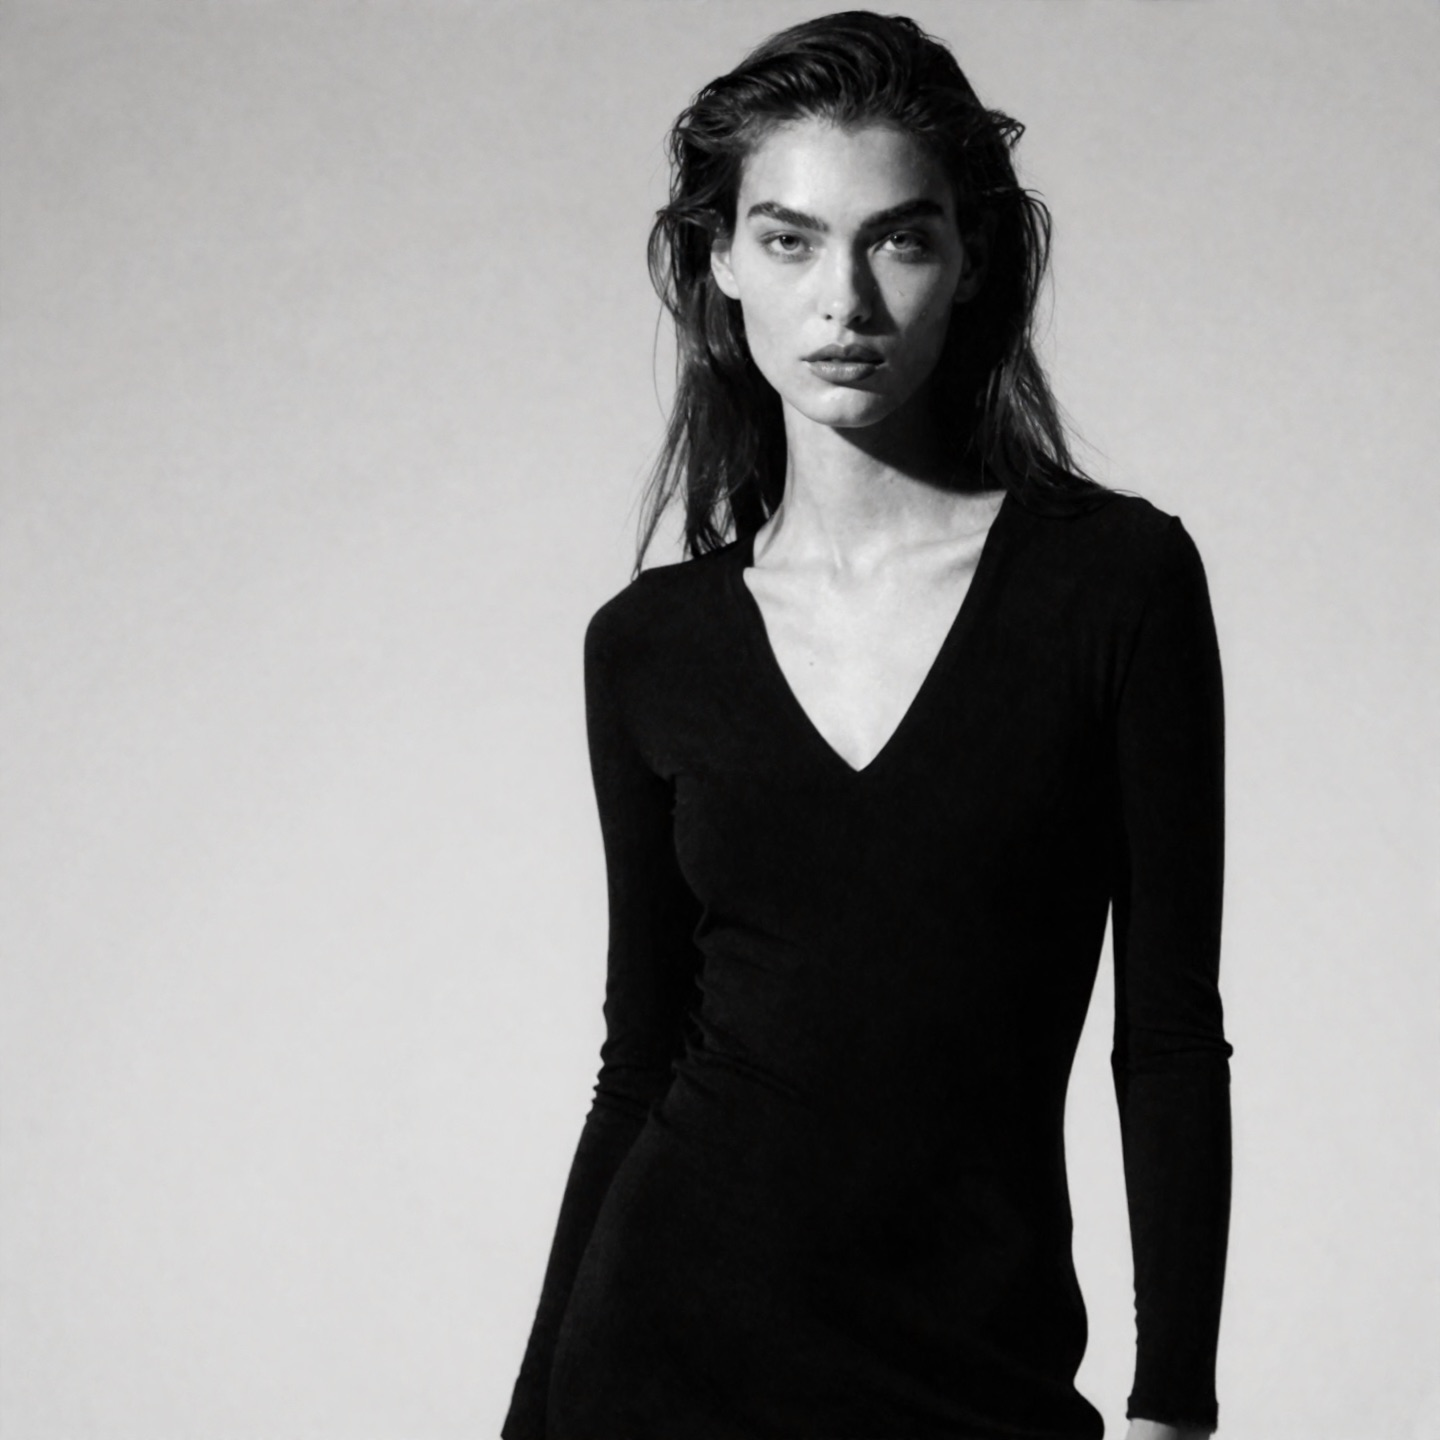
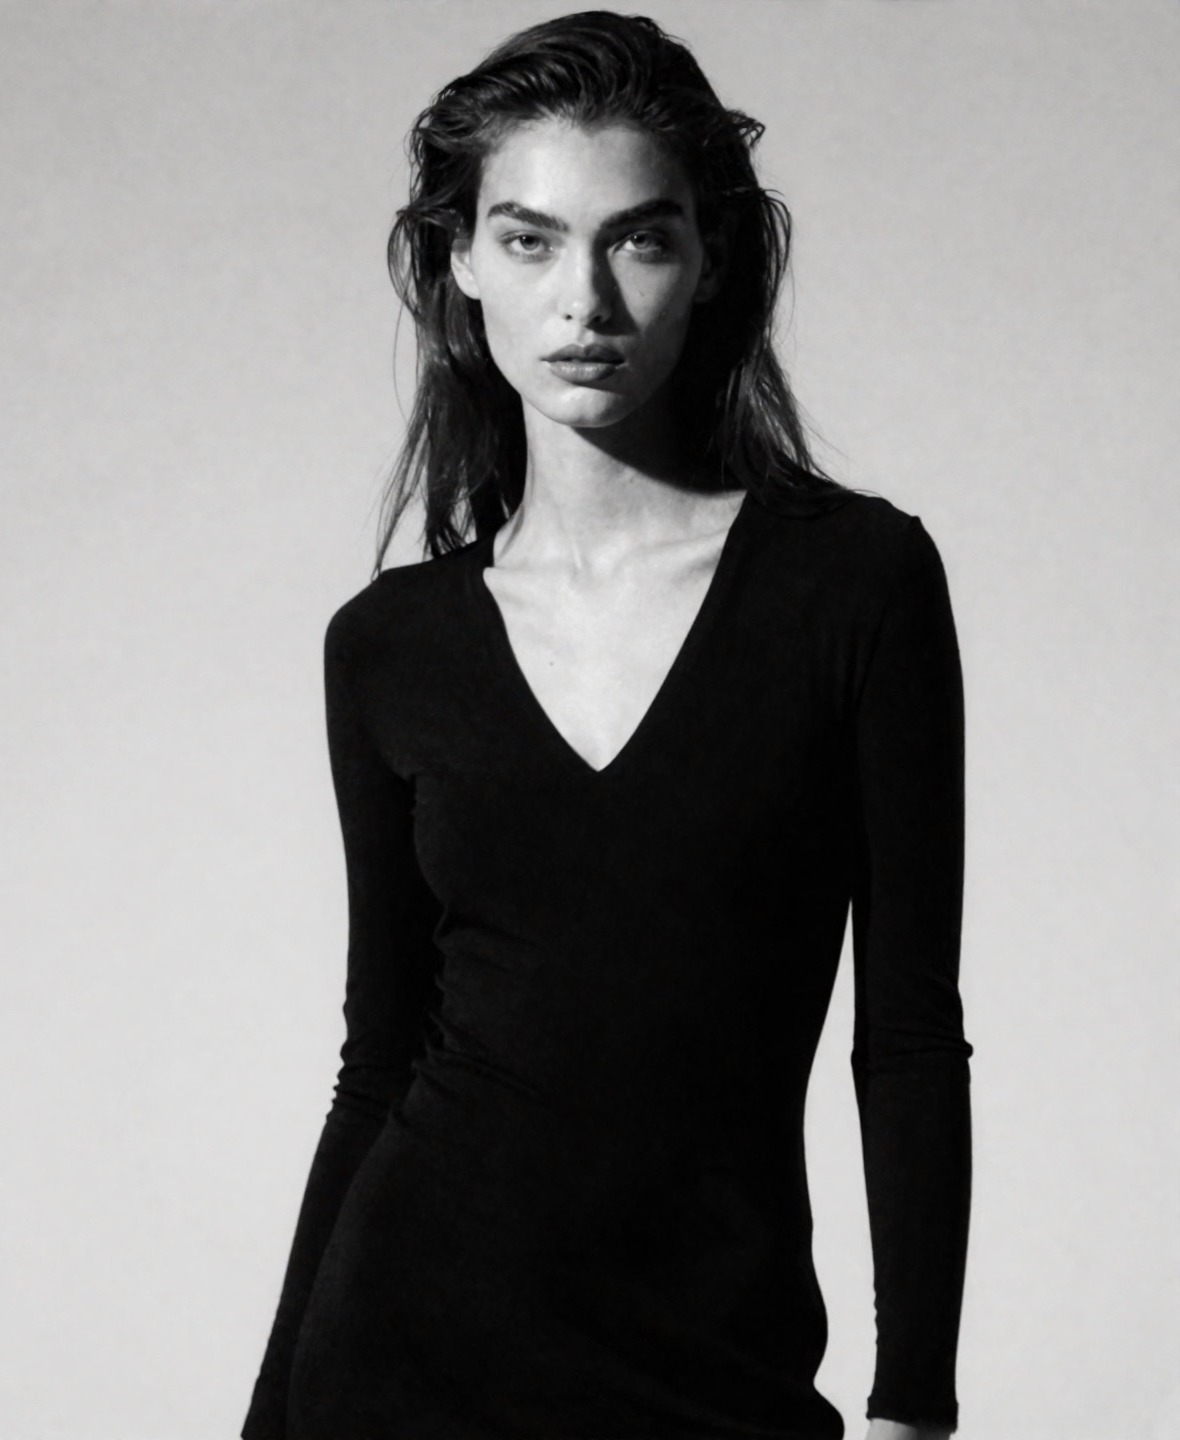
Reframe Beat 0 images: center woman in A, zoom out B
- beat0_A: crop 260px from left to shift woman from right-of-center to center
- beat0_B: switch to resizeMode=contain so full party scene is visible (zoomed out); dark top of image blends with app background

Changed region(s): [[0.1831, 0.0, 0.8542, 1.0]]

diff --git a/aihunter-app/features/onboarding/ThesisScreen.js b/aihunter-app/features/onboarding/ThesisScreen.js
@@ -14,8 +14,8 @@ const CARD_W       = 210;
 const CARD_GAP     = 12;
 
 const BEAT0_IMAGES = {
-  A: require('../../assets/onboarding/beat0_A.jpg'),
-  B: require('../../assets/onboarding/beat0_B.jpg'),
+  A: { src: require('../../assets/onboarding/beat0_A.jpg'), resize: 'cover'   },
+  B: { src: require('../../assets/onboarding/beat0_B.jpg'), resize: 'contain' },
 };
 
 const TIMELINE_IMAGES = {
@@ -238,9 +238,9 @@ function Beat0({ onFlash, onNext }) {
               ]}
             >
               <Image
-                source={BEAT0_IMAGES[label]}
+                source={BEAT0_IMAGES[label].src}
                 style={styles.beat0Image}
-                resizeMode="cover"
+                resizeMode={BEAT0_IMAGES[label].resize}
               />
               {stage >= 2 && (
                 <Animated.View style={[styles.beat0Overlay, { opacity: subAlpha }]}>
